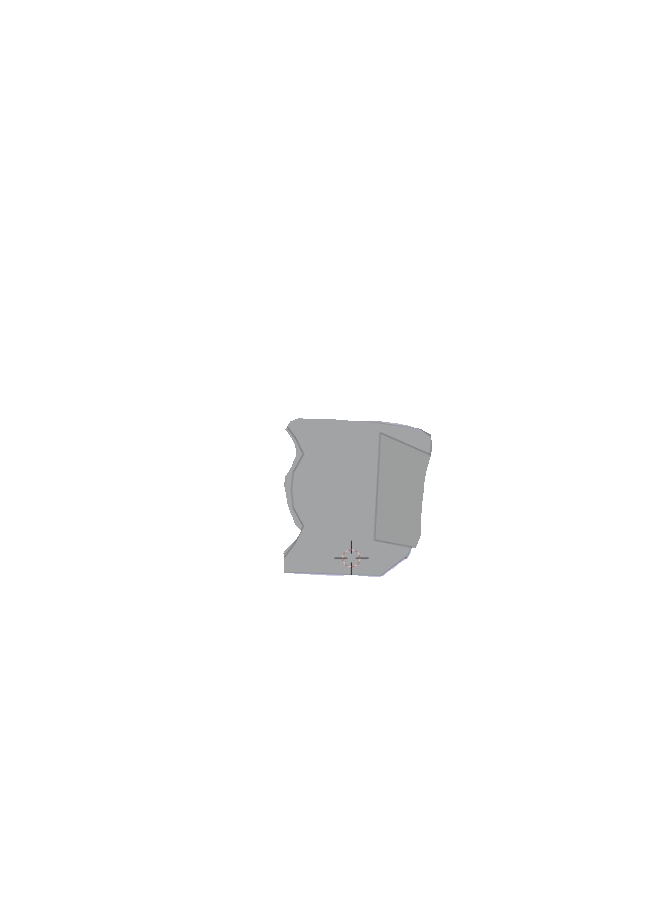
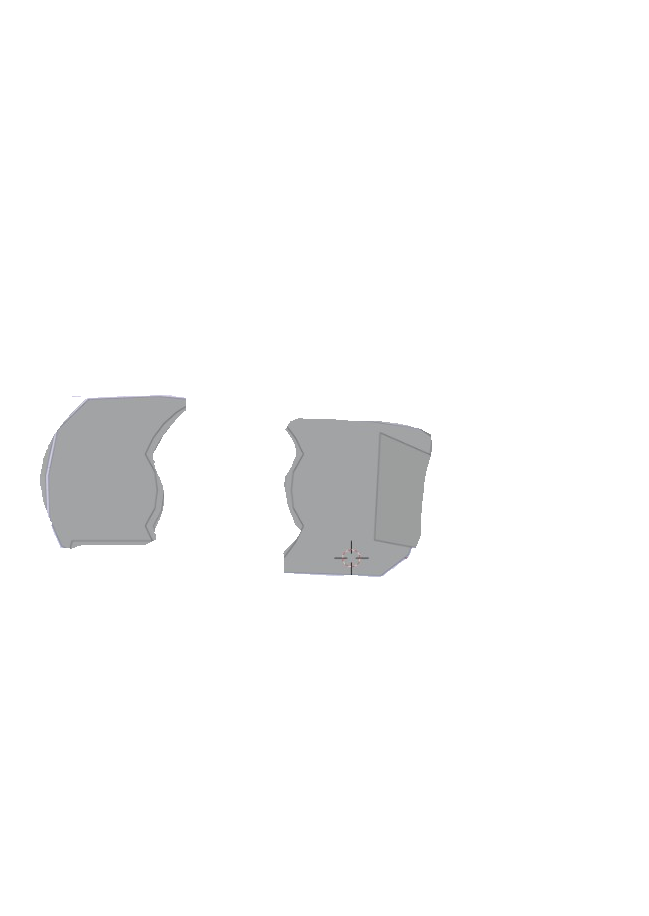
4、5 合并为主旨，尾巴改为结局。

Changed region(s): [[0.0616, 0.4279, 0.3082, 0.6114]]

diff --git a/index.html b/index.html
@@ -265,7 +265,7 @@
     <div class="board">
       <div class="stage" id="stage"></div>
       <div class="board-foot">
-        <span>9 块 · 6 个槽位</span>
+        <span>8 块 · 6 个槽位</span>
         <span id="progress">0 / 6</span>
       </div>
     </div>
@@ -276,7 +276,7 @@
     </div>
 
     <div class="pieces" id="slots"></div>
-    <p class="fixed">7 · 8 · 9　仅结构</p>
+    <p class="fixed">7 · 8　仅结构</p>
     <div class="tools">
       <button type="button" class="btn" id="clear">清空</button>
       <span class="count" id="count">已放 0 个</span>
@@ -289,7 +289,7 @@
 
 <script>
 const NATURAL = { w: 649, h: 916 };
[2 lines of base64/hex data omitted]
 
 const VERSIONS = [
   { key: "yuandian", name: "原典" },
@@ -309,13 +309,13 @@ const MARKS = [
   { i: 2, x: 51.0, y: 16.0 },
   { i: 3, x: 55.5, y: 40.8 },
   { i: 4, x: 54.6, y: 54.1 },
-  { i: 5, x: 16.6, y: 51.3 },
+  { i: 4, x: 16.6, y: 51.3 },
+  { i: 5, x: 8.2,  y: 73.0 },
   { i: 6, x: 34.8, y: 53.3 },
   { i: 7, x: 79.1, y: 57.5 },
-  { i: 8, x: 23.6, y: 74.8 },
-  { i: 9, x: 8.2,  y: 73.0 }
+  { i: 8, x: 23.6, y: 74.8 }
 ];
-const STRUCTURE = [7, 8, 9];
+const STRUCTURE = [7, 8];
 
 const nameOf = k => (VERSIONS.find(v => v.key === k) || {}).name || "";
 
@@ -354,7 +354,7 @@ const isSlot = i => i >= 1 && i <= 6;
 /* ---- 构建 ---- */
 
 function buildStage() {
-  [1,2,3,4,5,6,7,8,9].forEach(i => {
+  [1,2,3,4,5,6,7,8].forEach(i => {
     const el = document.createElement("div");
     el.className = "part";
     el.dataset.part = i;
